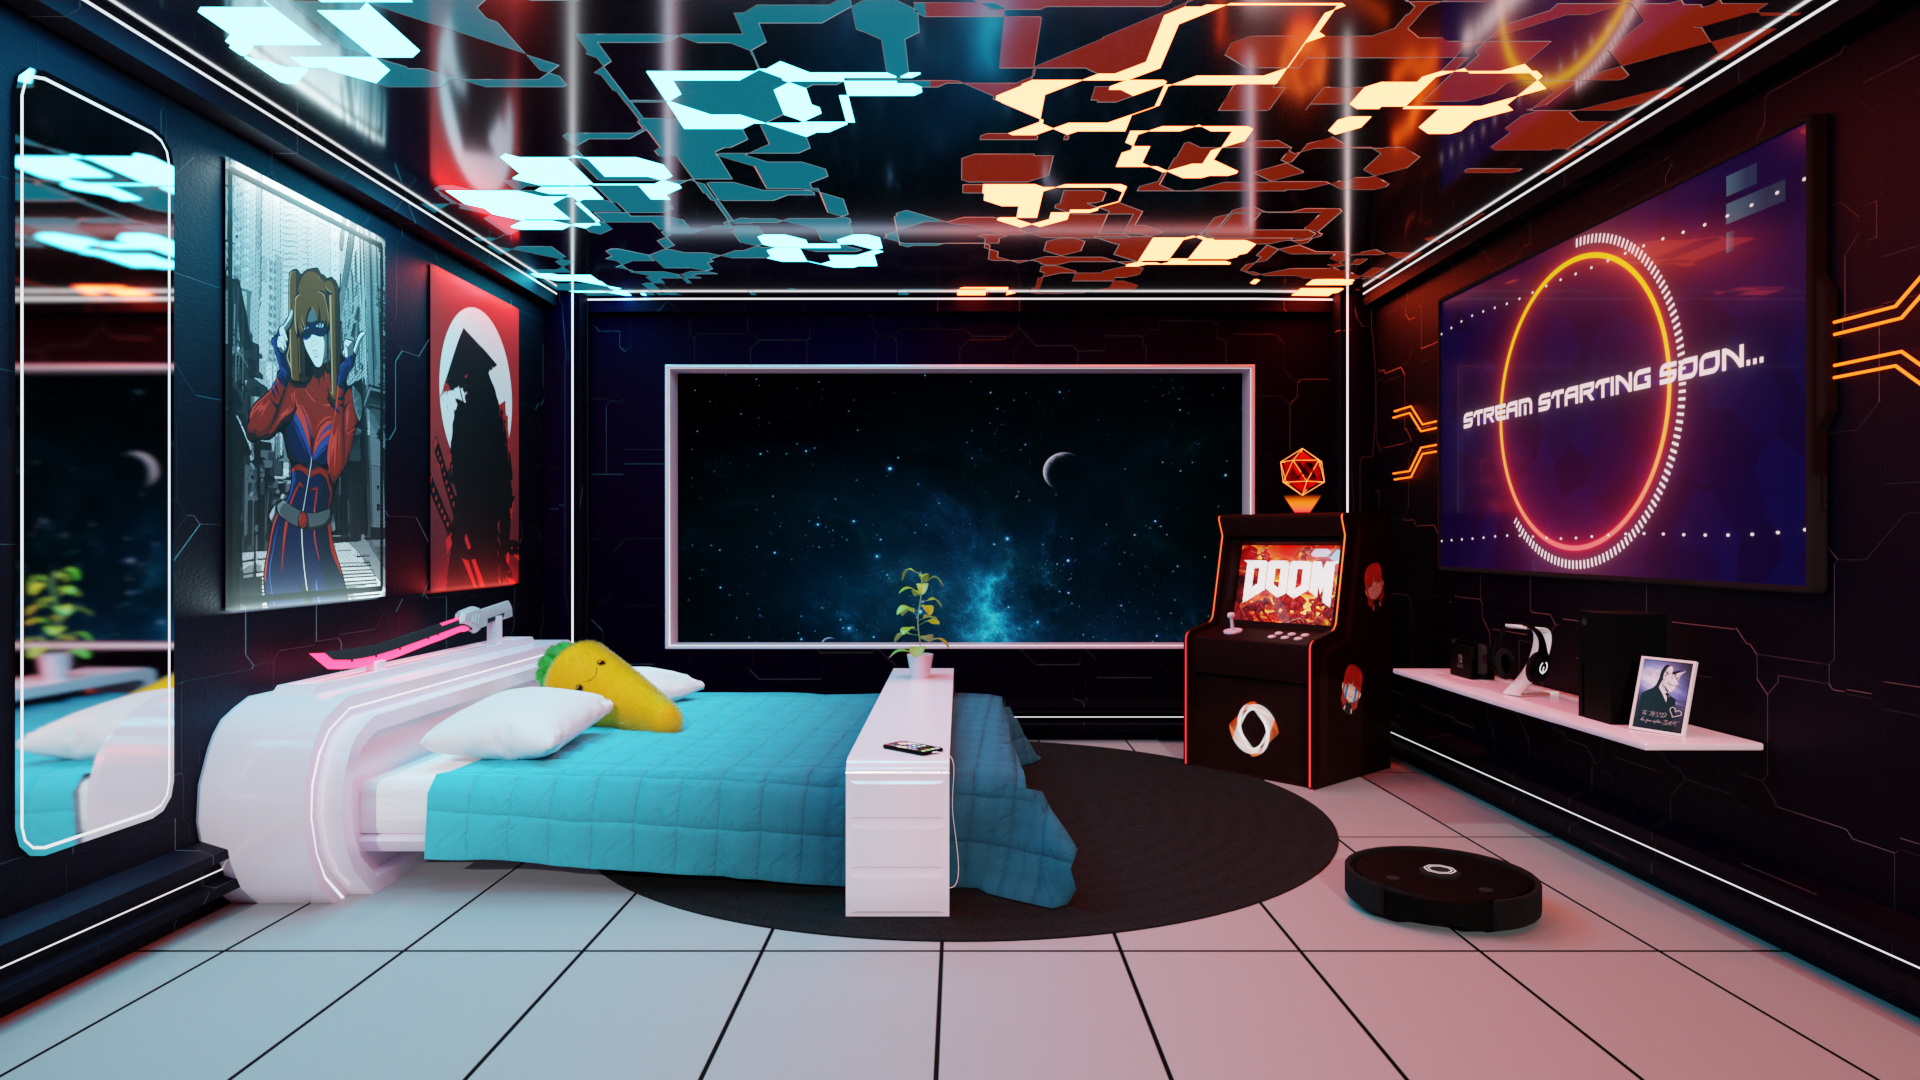
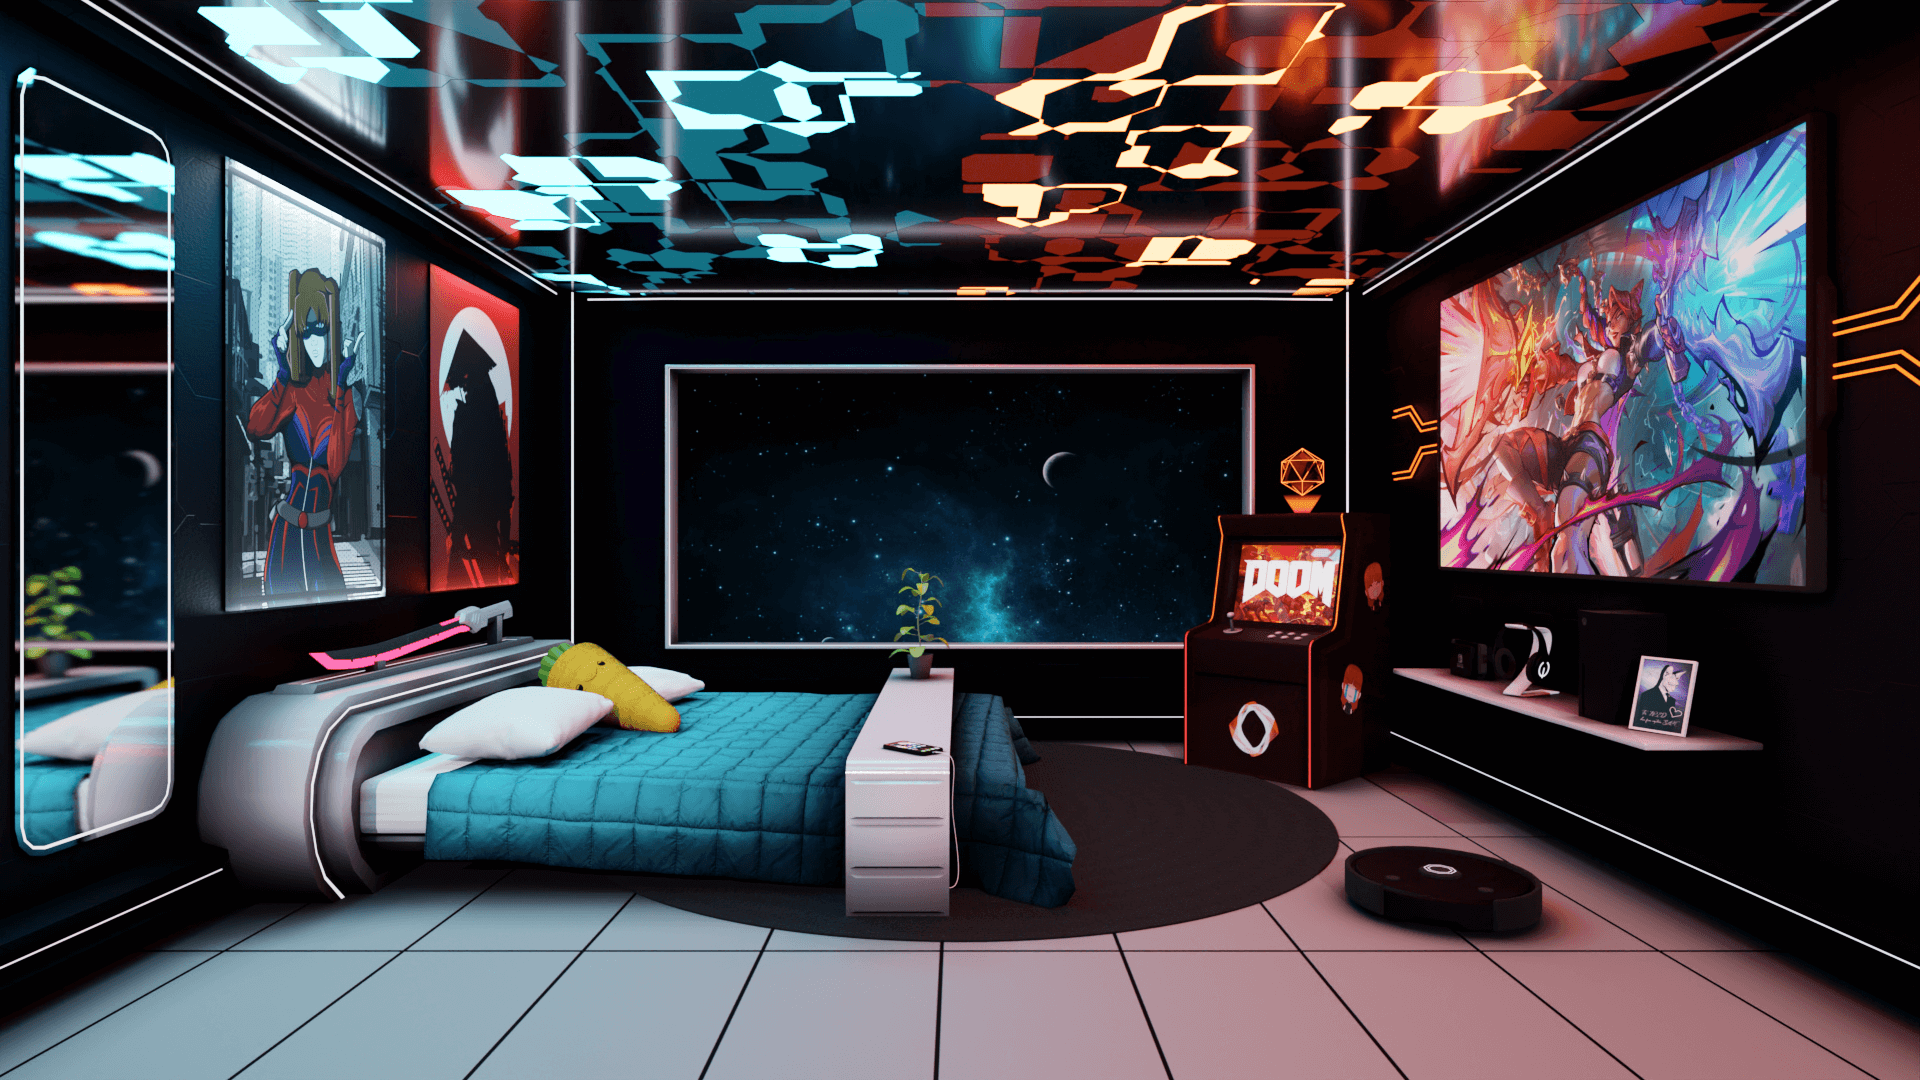
Add files via upload

diff --git a/index.html b/index.html
@@ -48,11 +48,10 @@
 
 
 				<article>
-					<img src="images/Chess.png" alt="" />
+					<img src="images/crea 3D.jpg" alt="" />
 					<div class="inner">
 						<header>
-							<p>infographie 2D/3D - Motion Design - Animation</p>
-							<h2>Rémi Andrez</h2>
+
 						</header>
 					</div>
 				</article>
@@ -60,48 +59,20 @@
 				
 
 				<article>
-					<img src="images/AKJ.jpg" alt="" />
+					<img src="images/Crea 2D.png" alt="" />
 					<div class="inner">
 						<header>
-							<p>infographie 2D/3D - Motion Design - Animation</p>
-							<h2>Rémi Andrez</h2>
+
 						</header>
 					</div>
 				</article>
 
 				<article>
-					<img src="images/meh2.png" alt="" />
+					<img src="images/VZ.png" alt="" />
 					<div class="inner">
-						<header>
-							<p>infographie 2D/3D - Motion Design - Animation</p>
-							<h2>Rémi Andrez</h2>
-						</header>
 					</div>
 				</article>
 
-				<article>
-					<img src="images/BRAINESCAPE.png" alt="" />
-					<div class="inner">
-						<header>
-							<p>infographie 2D/3D - Motion Design - Animation</p>
-							<h2>Rémi Andrez</h2>
-						</header>
-					</div>
-				</article>
-
-
-
-
-
-				<article>
-					<img src="images/mockup3.png" alt="" />
-					<div class="inner">
-						<header>
-							<p>infographie 2D/3D - Motion Design - Animation</p>
-							<h2>Rémi Andrez</h2>
-						</header>
-					</div>
-				</article>
 				
 			</section>
 
@@ -116,7 +87,7 @@
 						<p>About
 						</p>
 
-						<h2>Bien le bonjour, je suis <b>Rémi Andrez</b>. Possédant un goût prononcé pour <b>le dessin et la vidéo</b>, j'excelle dans la <b>production graphique</b> 2D ou 3D, qu'il s'agisse de <b>motion design</b>, d'<b>assets graphiques</b> ou de quelconque <b>conceptualisation</b>. J'ai pour Ambition de travailler dans le domaine du <b>jeu vidéo</b>, en tant que <b>graphiste 3D</b>, <b>technical artist</b> ou encore <b>Game designer</b>. Vous pourrez retrouver ci-dessous plusieurs des projets auxquels j'ai participé au cours de ces dernières années.</h2>
+						<h2>Bien le bonjour, je suis <b>Rémi Andrez</b>. Possédant un goût prononcé pour <b>le dessin et la vidéo</b>, j'excelle dans la <b>production graphique</b> 2D ou 3D, qu'il s'agisse de <b>motion design</b>, d'<b>assets graphiques</b> ou de quelconque <b>conceptualisation</b>. Vous pourrez retrouver ci-dessous plusieurs des projets auxquels j'ai participé au cours de ces dernières années.</h2>
 						
 						
 					</header>
@@ -154,22 +125,22 @@
 								</div>
 							</div>
 						</div>
-				
+
 
 						<div>
 							<div class="box">
 								<div class="image fit">
-									<img src="images/Masuku.jpg" alt="" />
+									<img src="images/streamLred.jpg" alt="" />
 								</div>
 								<div class="content">
 									<header class="align-center">
 										
-										<h2>Masuku</h2>
+										<h2>Ecrans et visuels pour Stream</h2>
 									</header>
-									<p> Masuku est un jeu contemplatif à énigmes, qui raconte l'histoire de Masuku, une jeune fille à capuche dont les flèches bleues ont été volées et dispersées à travers toute la forêt par un aigle géant. Ce jeu est un projet étudiant réalisé en une semaine.</p>
+									<p>J'ai eu la chance de produire les Écrans d'attente, de pause et de fin de stream ainsi que le LOGO et la bannière d'une chaîne Twitch.</p>
 									<footer class="align-center">
-										<a href="https://yovadorgmailcom.itch.io/masuku" class="button alt">Page Itch.io</a>
-										<a href="https://www.youtube.com/watch?v=s5qmw_hQFeY&feature=youtu.be" class="button alt">Making of</a>
+										<a href="https://www.youtube.com/watch?v=ysdLGgcyVQo" class="button alt">Lien Youtube</a>
+										<a href="https://www.twitch.tv/lred17" class="button alt">Chaîne Twitch</a>
 									</footer>
 								</div>
 							</div>
@@ -198,24 +169,30 @@
 						</div>
 
 
+
 						<div>
 							<div class="box">
 								<div class="image fit">
-									<img src="images/streamLred.jpg" alt="" />
+									<img src="images/Masuku.jpg" alt="" />
 								</div>
 								<div class="content">
 									<header class="align-center">
 										
-										<h2>Ecrans et visuels pour Stream</h2>
+										<h2>Masuku</h2>
 									</header>
-									<p>J'ai eu la chance de produire les Écrans d'attente, de pause et de fin de stream ainsi que le LOGO et la bannière d'une chaîne Twitch.</p>
+									<p> Masuku est un jeu contemplatif à énigmes, qui raconte l'histoire de Masuku, une jeune fille à capuche dont les flèches bleues ont été volées et dispersées à travers toute la forêt par un aigle géant. Ce jeu est un projet étudiant réalisé en une semaine.</p>
 									<footer class="align-center">
-										<a href="https://www.youtube.com/watch?v=ysdLGgcyVQo" class="button alt">Lien Youtube</a>
-										<a href="https://www.twitch.tv/lred17" class="button alt">Chaîne Twitch</a>
+										<a href="https://yovadorgmailcom.itch.io/masuku" class="button alt">Page Itch.io</a>
+										<a href="https://www.youtube.com/watch?v=s5qmw_hQFeY&feature=youtu.be" class="button alt">Making of</a>
 									</footer>
 								</div>
 							</div>
 						</div>
+
+
+
+
+
 
 						<div>
 							<div class="box">
@@ -422,7 +399,7 @@
 							<div class="image fit">
 								<a><img src="images/LOGOLRED.jpg" alt="" /></a>
 							</div>
-							<p class="align-center">Design d'un logo faitpour une chaine Twitch</p>
+							<p class="align-center">Design d'un logo fait pour une chaine Twitch</p>
 						</div>
 
 						<div>

diff --git a/assets/css/main.css b/assets/css/main.css
@@ -4143,7 +4143,7 @@
 				position: absolute;
 				top: 0;
 				left: 0;
-				background: #000;
+				
 				opacity: 0.35;
 			}
 
